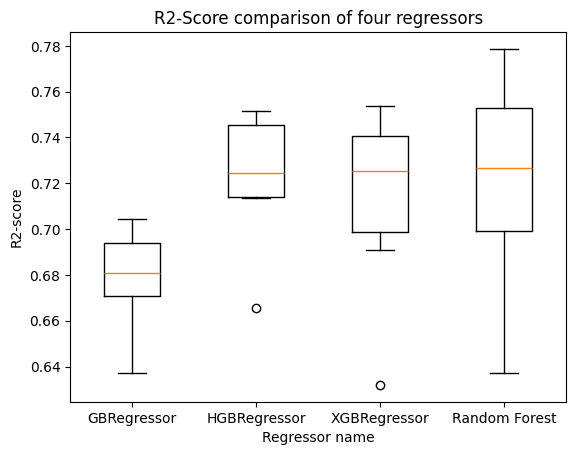
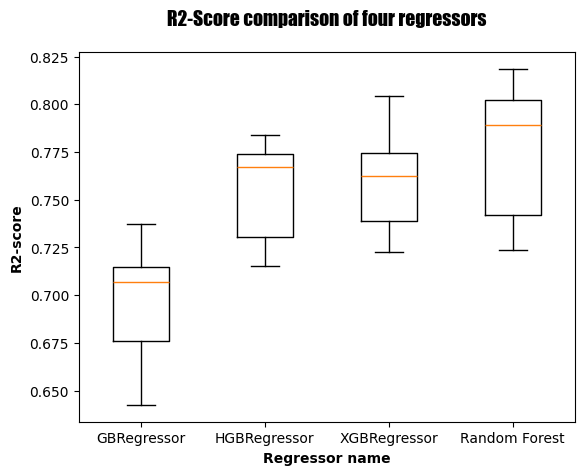
Update README.me

diff --git a/README.md b/README.md
@@ -55,6 +55,34 @@ In the following, we will detail the work carried out in the last two phases of 
 
 ## Modeling
 
+The modeling phase started with a raw DataFrame consisting of 118714 rows and 32 columns. Before the modeling itself, we have the following preprocessing operations.
+
+1. **Data cleaning** (data validation, addressing missing data).
+
+2. **Features engineering**:
+
+    - *Lasso regression* for feature selection;
+
+    - *ColumnTransformer*, *RobustScaler*, *OneHotEncoder* and *OrdinalEncoder* for feature transformation.
+
+
+After the preprocessing step, we tried a model with multilinear regression, as well as other linear models such as Ridge and Lasso regressions. But, the *R2-score* did not exceed 0.5 and the *Mean Absolute Error* was above 150,000 euros. We then turned to scikit-learn **ensemble methods** and to **Extreme Gradient Boosting Regressor (XGBoost)**.
+
+We used *cross-validation* without *hyperparameter tuning* to evaluate and compare the models. With this in mind, the diagram below provides an overview of the distribution of the R2-score of the following four models:
+
+1. Gradient Boosting Regressor (GBRegressor);
+
+2. Histogram Gradient Boosting Regressor (HGBRegressor); 
+
+3. Extreme Gradient Boosting Regressor (XGBRegressor);
+
+4. Random Forest Regressor.
+
+
+<p align="center">
+  <img src = "images/regressors_comparison.png" width=600>
+</p>
+
 
 
 ## Deployment
@@ -62,6 +90,8 @@ In the following, we will detail the work carried out in the last two phases of 
 
 
 ## Technology
+
+The main tools we used in this project are the following.
 
 <a href="https://www.python.org" target="_blank" rel="noreferrer"> <img src="https://raw.githubusercontent.com/devicons/devicon/master/icons/python/python-original.svg" alt="python" width="40" height="40"/> </a>
 
